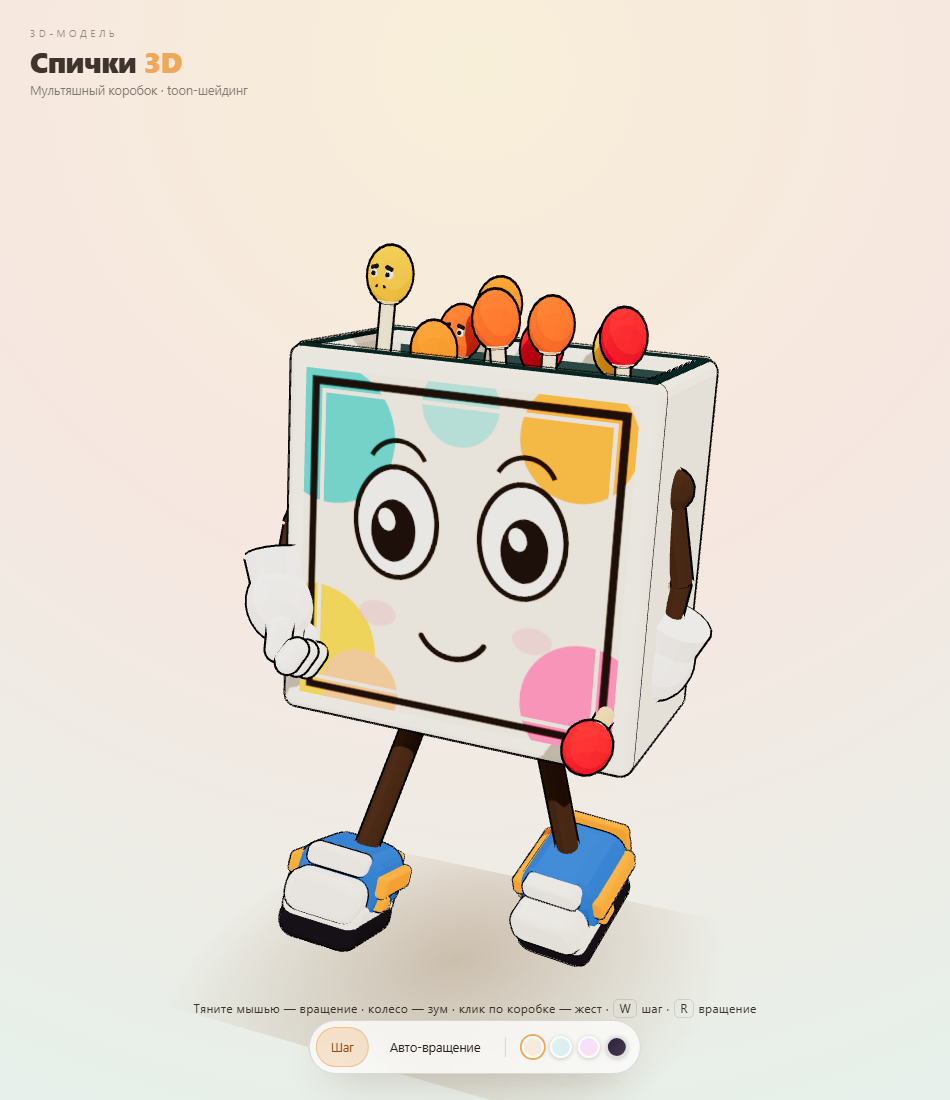
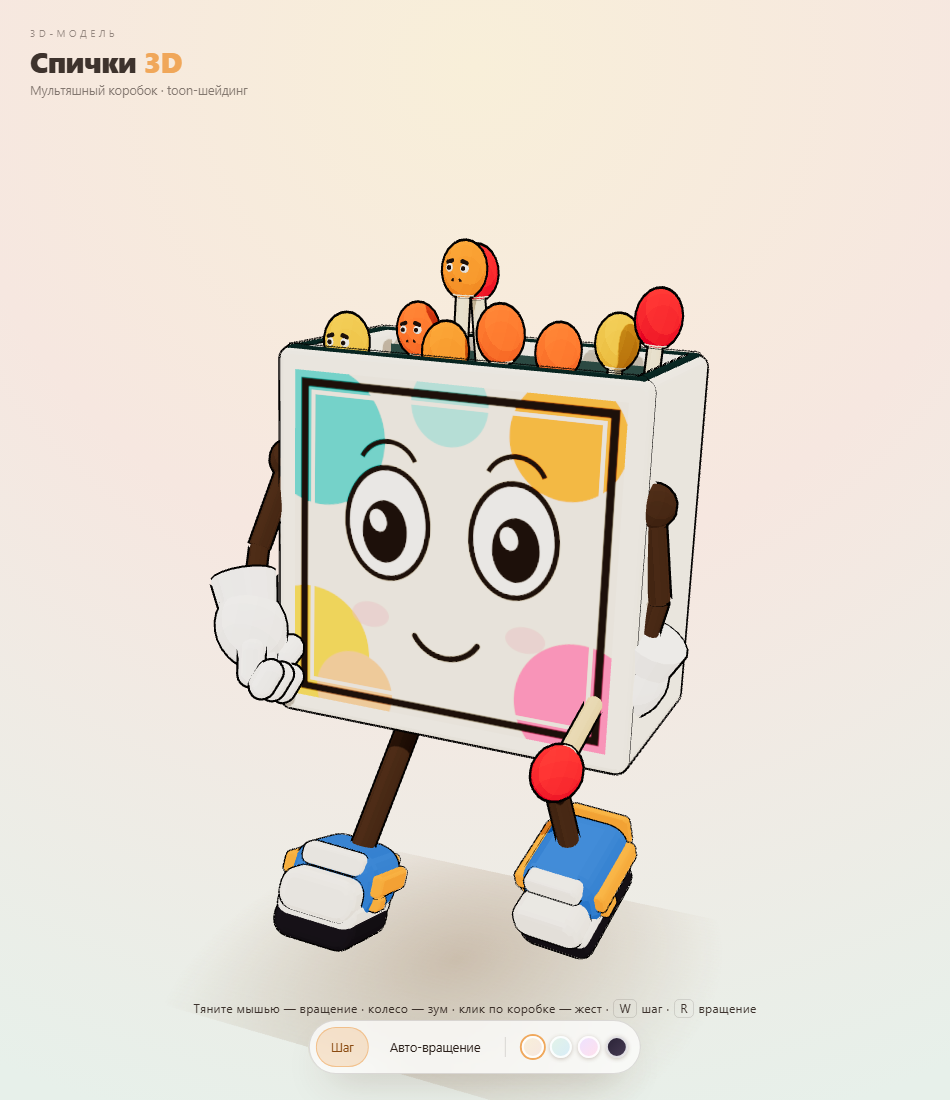
feat(matchbox): hands brought forward, arms spread, match turned 90 deg forward

Changed region(s): [[0.2442, 0.2164, 0.7632, 0.8964], [0.5495, 0.5873, 0.58, 0.6182], [0.5189, 0.6182, 0.5495, 0.6491]]

diff --git a/dist/matchbox.html b/dist/matchbox.html
@@ -434,7 +434,7 @@ function heldMatch(){
 const armPivots = {};
 [-1, 1].forEach(function(sign){
   const pivot = new THREE.Group();
-  pivot.position.set(sign * (BW / 2 + .005), 1.30, .07);
+  pivot.position.set(sign * (BW / 2 + .02), 1.28, .20);
   hero.add(pivot);
   const sb = ball(.052, M.limb, 16);
   pivot.add(sb);
@@ -678,16 +678,16 @@ function frame(){
     legPivots.R.rotation.z = .06;
     armPivots.R.rotation.x = Math.sin(stepPhase + Math.PI) * .34;
     armPivots.L.rotation.x = Math.sin(stepPhase) * .34;
-    armPivots.R.rotation.z = -.34;
-    armPivots.L.rotation.z = .34;
+    armPivots.R.rotation.z = -.42;
+    armPivots.L.rotation.z = .42;
   } else {
     legPivots.L.rotation.x += (0 - legPivots.L.rotation.x) * ck;
     legPivots.R.rotation.x += (0 - legPivots.R.rotation.x) * ck;
     ['L', 'R'].forEach(function(k){
       armPivots[k].rotation.x += (0 - armPivots[k].rotation.x) * ck;
     });
-    armPivots.R.rotation.z = -.34;
-    armPivots.L.rotation.z = .34;
+    armPivots.R.rotation.z = -.42;
+    armPivots.L.rotation.z = .42;
   }
 
   // «жест» по клику: машем перчаткой

diff --git a/src/matchbox/index.html b/src/matchbox/index.html
@@ -427,7 +427,7 @@ function heldMatch(){
 const armPivots = {};
 [-1, 1].forEach(function(sign){
   const pivot = new THREE.Group();
-  pivot.position.set(sign * (BW / 2 + .005), 1.30, .07);
+  pivot.position.set(sign * (BW / 2 + .02), 1.28, .20);
   hero.add(pivot);
   const sb = ball(.052, M.limb, 16);
   pivot.add(sb);
@@ -671,16 +671,16 @@ function frame(){
     legPivots.R.rotation.z = .06;
     armPivots.R.rotation.x = Math.sin(stepPhase + Math.PI) * .34;
     armPivots.L.rotation.x = Math.sin(stepPhase) * .34;
-    armPivots.R.rotation.z = -.34;
-    armPivots.L.rotation.z = .34;
+    armPivots.R.rotation.z = -.42;
+    armPivots.L.rotation.z = .42;
   } else {
     legPivots.L.rotation.x += (0 - legPivots.L.rotation.x) * ck;
     legPivots.R.rotation.x += (0 - legPivots.R.rotation.x) * ck;
     ['L', 'R'].forEach(function(k){
       armPivots[k].rotation.x += (0 - armPivots[k].rotation.x) * ck;
     });
-    armPivots.R.rotation.z = -.34;
-    armPivots.L.rotation.z = .34;
+    armPivots.R.rotation.z = -.42;
+    armPivots.L.rotation.z = .42;
   }
 
   // «жест» по клику: машем перчаткой
